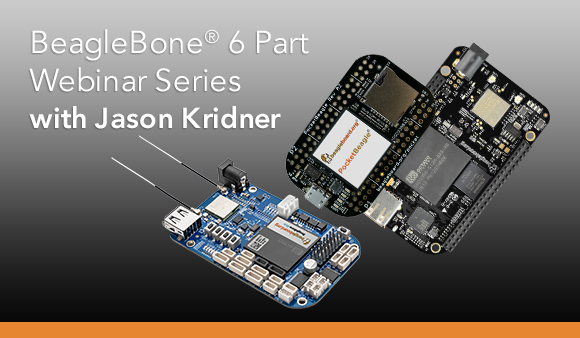
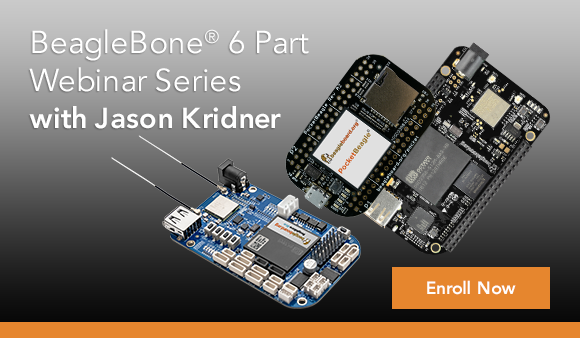
update header image

Changed region(s): [[0.6517, 0.7692, 0.9621, 0.9172]]

diff --git a/docs/beaglebone-six-part-series.html b/docs/beaglebone-six-part-series.html
@@ -20,7 +20,7 @@
             <table align="center" class="container float-center"><tbody><tr><td>
             	<table class="row"><tbody><tr>
             		<th class="small-12 large-12 columns first last"><table><tr><th>
-            			<table class="spacer"><tbody><tr><td height="20px" style="font-size:20px;line-height:20px;">&#xA0;</td></tr></tbody></table> 
+            			<table class="spacer"><tbody><tr><td height="10px" style="font-size:10px;line-height:10px;">&#xA0;</td></tr></tbody></table> 
             		</th>
 <th class="expander"></th></tr></table></th>
             	</tr></tbody></table>
@@ -42,42 +42,52 @@
             </td></tr></tbody></table>
             
             <table align="center" class="container float-center"><tbody><tr><td>
-            	<table class="row collapse"><tbody><tr>
+            	<table class="row"><tbody><tr>
+            		<th class="small-12 large-12 columns first last"><table><tr><th>
+            			<table class="spacer"><tbody><tr><td height="10px" style="font-size:10px;line-height:10px;">&#xA0;</td></tr></tbody></table> 
+            		</th>
+<th class="expander"></th></tr></table></th>
+            	</tr></tbody></table>
+            </td></tr></tbody></table>
             
-            		<th class="small-5 large-5 columns first last"><table><tr><th>
+            
+            <table align="center" class="container float-center"><tbody><tr><td>
+            	<table class="row collapse"><tbody><tr>
+            		<th class="small-12 large-12 columns first last"><table><tr><th>
             			<a href="https://www.element14.com/community/docs/DOC-89480/l/beaglebone-6-part-webinar-series?ICID=webinar-JKridnerwebseries-ban#jkridner">
-            			<img class="float-right" src="https://raw.githubusercontent.com/diomededavid/beagleboard-promos/master/docs/assets/img/e14community.png?raw=true" alt="element14 community">
-            		</a></th></tr></table></th>
+            			<img class="float-right" src="https://raw.githubusercontent.com/diomededavid/beagleboard-promos/master/docs/assets/img/beaglebone-webinar-series.png?raw=true" alt="element14 community">
+            		</a></th>
+<th class="expander"></th></tr></table></th>
             	</tr></tbody></table>
             </td></tr></tbody></table>
             
             <table align="center" class="container float-center"><tbody><tr><td>
             	<table class="row"><tbody><tr>
             		<th class="small-12 large-12 columns first last"><table><tr><th>
-            			<table class="spacer"><tbody><tr><td height="20px" style="font-size:20px;line-height:20px;">&#xA0;</td></tr></tbody></table> 
+            			<table class="spacer"><tbody><tr><td height="10px" style="font-size:10px;line-height:10px;">&#xA0;</td></tr></tbody></table> 
             		</th>
 <th class="expander"></th></tr></table></th>
             	</tr></tbody></table>
             </td></tr></tbody></table>
             
             <table align="center" class="container float-center"><tbody><tr><td>
-            	<header class="background-primary-light">
+            	<header class="background-light-gray">
             		<table class="row"><tbody><tr>
             			<th class="small-12 large-12 columns first last"><table><tr><th>
             				<table class="spacer"><tbody><tr><td height="10px" style="font-size:10px;line-height:10px;">&#xA0;</td></tr></tbody></table> 
             			</th>
 <th class="expander"></th></tr></table></th>
             		</tr></tbody></table>
-            		<table class="row background-primary-light"><tbody><tr>
+            		<table class="row"><tbody><tr>
             			<th class="small-1 large-1 columns first"><table><tr><th></th></tr></table></th>
             			<th class="small-10 large-10 columns"><table><tr><th>
-            				<h6 class="mb-0">Join us in this 6 part bi-weekly BeagleBone® webinar series presented by <b>Jason Kridner,</b> the
+            				<p class="mb-0">Join us in this 6 part bi-weekly BeagleBone® webinar series presented by <b>Jason Kridner,</b> the
             					co-founder and board member at
             					<a href="http://beagleboard.org/">BeagleBoard.org</a> Foundation, and element14, about the
             					fundamentals of BeagleBone®. They will show you how to have fun with the
             					<a href="https://www.element14.com/community/community/designcenter/single-board-computers/next-gen_beaglebone?ICID=webinars-6BBB-seriesdoc">BeagleBone®
             						boards</a>.
-            				</h6>
+            				</p>
             			</th></tr></table></th>
             			<th class="small-1 large-1 columns last"><table><tr><th></th></tr></table></th>
             		</tr></tbody></table>
@@ -91,21 +101,21 @@
             </td></tr></tbody></table>
             
             <table align="center" class="container float-center"><tbody><tr><td>
-            		<table class="row"><tbody><tr>
-            			<th class="small-12 large-12 columns first last"><table><tr><th>
-            				<table class="spacer"><tbody><tr><td height="20px" style="font-size:20px;line-height:20px;">&#xA0;</td></tr></tbody></table> 
-            			</th>
+            	<table class="row"><tbody><tr>
+            		<th class="small-12 large-12 columns first last"><table><tr><th>
+            			<table class="spacer"><tbody><tr><td height="20px" style="font-size:20px;line-height:20px;">&#xA0;</td></tr></tbody></table> 
+            		</th>
 <th class="expander"></th></tr></table></th>
-            		</tr></tbody></table>
+            	</tr></tbody></table>
             
-            		<table class="row show-for-large"><tbody><tr>
-            			<th class="small-1 large-1 columns first"><table><tr><th></th></tr></table></th>
-            			<th class="small-10 large-10 columns"><table><tr><th>
-            				<h4 class="mb-0">Webinar Details</h4>
-            				<p>All webinar times are 11:00 AM (CDT)/17:00 (GMT)</p>
-            			</th></tr></table></th>
-            			<th class="small-1 large-1 columns last"><table><tr><th></th></tr></table></th>
-            		</tr></tbody></table>
+            	<table class="row show-for-large"><tbody><tr>
+            		<th class="small-1 large-1 columns first"><table><tr><th></th></tr></table></th>
+            		<th class="small-10 large-10 columns"><table><tr><th>
+            			<h4 class="mb-0">Webinar Details</h4>
+            			<p>All webinar times are 11:00 AM (CDT)/17:00 (GMT)</p>
+            		</th></tr></table></th>
+            		<th class="small-1 large-1 columns last"><table><tr><th></th></tr></table></th>
+            	</tr></tbody></table>
             
             		<table class="row"><tbody><tr>
             			<th class="small-1 large-1 columns first"><table><tr><th></th></tr></table></th>
@@ -170,11 +180,11 @@
             
             <table align="center" class="container background-light-gray float-center"><tbody><tr><td>
             	<table class="row"><tbody><tr>
-            			<th class="small-12 large-12 columns first last"><table><tr><th>
-            				<table class="spacer"><tbody><tr><td height="10px" style="font-size:10px;line-height:10px;">&#xA0;</td></tr></tbody></table> 
-            			</th>
+            		<th class="small-12 large-12 columns first last"><table><tr><th>
+            			<table class="spacer"><tbody><tr><td height="10px" style="font-size:10px;line-height:10px;">&#xA0;</td></tr></tbody></table> 
+            		</th>
 <th class="expander"></th></tr></table></th>
-            		</tr></tbody></table>
+            	</tr></tbody></table>
             	<table class="row"><tbody><tr>
             		<th class="small-1 large-1 columns first"><table><tr><th></th></tr></table></th>
             		<th class="small-10 large-10 columns"><table><tr><th>

diff --git a/src/pages/beaglebone-six-part-series.html b/src/pages/beaglebone-six-part-series.html
@@ -6,7 +6,7 @@ description: BeagleBone 6 Part Webinar Series presented by Jason Kridner
 <container>
 	<row>
 		<columns small="12">
-			<spacer size="20"></spacer>
+			<spacer size="10"></spacer>
 		</columns>
 	</row>
 </container>
@@ -27,11 +27,19 @@ description: BeagleBone 6 Part Webinar Series presented by Jason Kridner
 </container>
 
 <container>
-	<row class="collapse">
+	<row>
+		<columns small="12">
+			<spacer size="10"></spacer>
+		</columns>
+	</row>
+</container>
 
-		<columns small="5">
+
+<container>
+	<row class="collapse">
+		<columns small="12">
 			<a href="https://www.element14.com/community/docs/DOC-89480/l/beaglebone-6-part-webinar-series?ICID=webinar-JKridnerwebseries-ban#jkridner">
-			<img class="float-right" src="https://raw.githubusercontent.com/diomededavid/beagleboard-promos/master/docs/assets/img/e14community.png?raw=true" alt="element14 community">
+			<img class="float-right" src="https://raw.githubusercontent.com/diomededavid/beagleboard-promos/master/docs/assets/img/beaglebone-webinar-series.png?raw=true" alt="element14 community">
 		</columns>
 	</row>
 </container>
@@ -39,28 +47,28 @@ description: BeagleBone 6 Part Webinar Series presented by Jason Kridner
 <container>
 	<row>
 		<columns small="12">
-			<spacer size="20"></spacer>
+			<spacer size="10"></spacer>
 		</columns>
 	</row>
 </container>
 
 <container>
-	<header class="background-primary-light">
+	<header class="background-light-gray">
 		<row>
 			<columns small="12">
 				<spacer size="10"></spacer>
 			</columns>
 		</row>
-		<row small="10" class="background-primary-light">
+		<row small="10">
 			<columns small="1"></columns>
 			<columns small="10">
-				<h6 class="mb-0">Join us in this 6 part bi-weekly BeagleBone® webinar series presented by <b>Jason Kridner,</b> the
+				<p class="mb-0">Join us in this 6 part bi-weekly BeagleBone® webinar series presented by <b>Jason Kridner,</b> the
 					co-founder and board member at
 					<a href="http://beagleboard.org/">BeagleBoard.org</a> Foundation, and element14, about the
 					fundamentals of BeagleBone®. They will show you how to have fun with the
 					<a href="https://www.element14.com/community/community/designcenter/single-board-computers/next-gen_beaglebone?ICID=webinars-6BBB-seriesdoc">BeagleBone®
 						boards</a>.
-				</h6>
+				</p>
 			</columns>
 			<columns small="1"></columns>
 		</row>
@@ -73,20 +81,20 @@ description: BeagleBone 6 Part Webinar Series presented by Jason Kridner
 </container>
 
 <container>
-		<row>
-			<columns small="12">
-				<spacer size="20"></spacer>
-			</columns>
-		</row>
+	<row>
+		<columns small="12">
+			<spacer size="20"></spacer>
+		</columns>
+	</row>
 
-		<row class="show-for-large">
-			<columns small="1"></columns>
-			<columns small="10" large="10">
-				<h4 class="mb-0">Webinar Details</h4>
-				<p>All webinar times are 11:00 AM (CDT)/17:00 (GMT)</p>
-			</columns>
-			<columns small="1"></columns>
-		</row>
+	<row class="show-for-large">
+		<columns small="1"></columns>
+		<columns small="10" large="10">
+			<h4 class="mb-0">Webinar Details</h4>
+			<p>All webinar times are 11:00 AM (CDT)/17:00 (GMT)</p>
+		</columns>
+		<columns small="1"></columns>
+	</row>
 
 		<row>
 			<columns small="1"></columns>
@@ -151,10 +159,10 @@ description: BeagleBone 6 Part Webinar Series presented by Jason Kridner
 
 <container class="background-light-gray">
 	<row>
-			<columns small="12">
-				<spacer size="10"></spacer>
-			</columns>
-		</row>
+		<columns small="12">
+			<spacer size="10"></spacer>
+		</columns>
+	</row>
 	<row>
 		<columns small="1"></columns>
 		<columns small="10" large="10">
